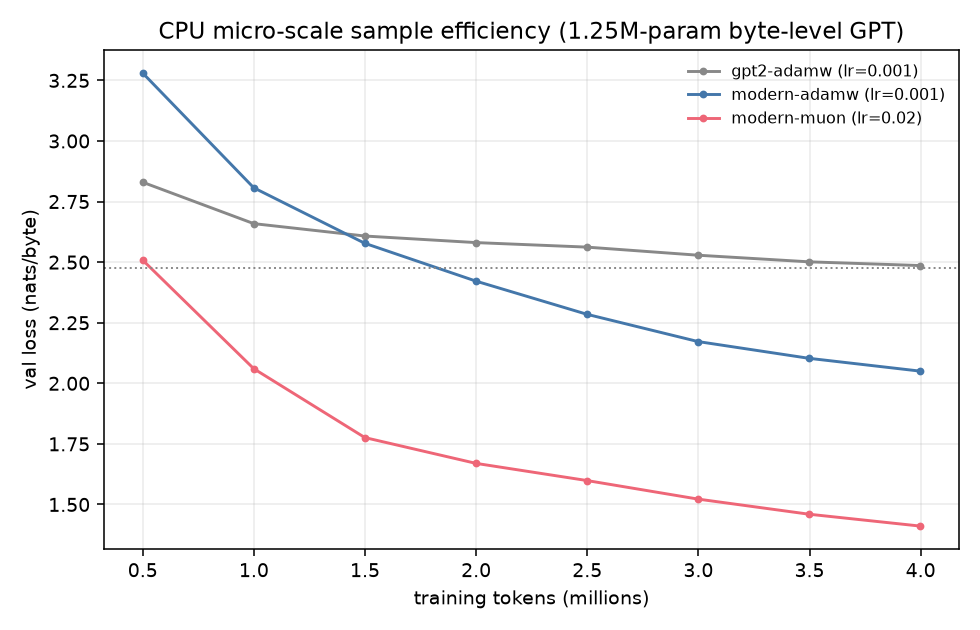
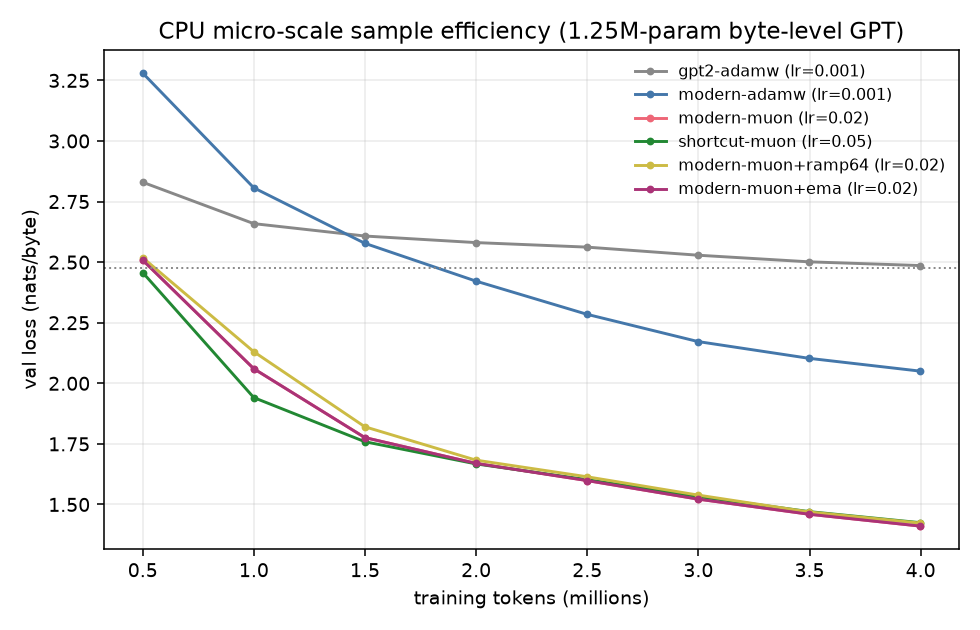
Draft micro-experiment results write-up (final run pending)
Claude-Session: https://claude.ai/code/session_01YXLqiXyV5Ltd4XeXdRZQdi

diff --git a/experiments/cpu_micro/RESULTS.md b/experiments/cpu_micro/RESULTS.md
@@ -1,0 +1,76 @@
+# CPU micro-scale sample-efficiency results
+
+**Question:** do the modded-nanogpt recipe's ingredients actually buy sample
+efficiency, when tested independently under controlled conditions — and do two
+additions absent from the recipe (an early-position loss ramp; EMA weight
+averaging) buy any more?
+
+**Setup** (see `train_micro.py`, `make_data.py`): byte-level GPT, 6 layers,
+dim 128, 4 heads, seq 512, ~1.25M params; 22.4MB of real English text (NLTK
+gutenberg + webtext + reuters) cut into non-overlapping 513-byte windows,
+shuffled with a fixed seed; 5% held out for validation. Every run consumes the
+**identical window stream** with a fixed budget of **4,000,000 training
+tokens** (488 steps × 16×512), and is scored on the same held-out windows
+(curve evals on 131,072 tokens; finals on 524,288). Learning rate swept per
+variant; all optima were interior to the sweeps except where noted. Training
+is fully deterministic: a re-run of the same configuration reproduces the
+final loss bit-for-bit.
+
+Hardware: 4 CPU cores. This is ~100,000× smaller compute than the real
+benchmark, which is exactly why it's runnable here — and why the numbers below
+measure *directions and orderings*, not what happens at 124M parameters.
+
+## Final validation loss at the 4M-token budget (best lr per variant)
+
+| variant | what it tests | best lr | final val loss | tokens to reach baseline's final loss |
+|---|---|---|---|---|
+| `gpt2-adamw` | GPT-2-style arch + AdamW (tuned baseline) | 1e-3 | 2.4739 | 4.0M (by definition) |
+| `modern-adamw` | + rotary, RMSNorm, QK-norm, ReLU², zero-init, untied head, softcap | 1e-3 | 2.0369 | 2.0M (**2× fewer**) |
+| `modern-muon` | + Muon on hidden matrices | 0.02 | 1.4059 | 1.0M (**4× fewer**) |
+| `shortcut-muon` | + value embeddings, x0 shortcut, U-net skips | 0.05 | 1.4166 | ≤0.5M (**≥8× fewer**, first eval point) |
+| `shortcut-muon` | (same, at lr 0.02) | 0.02 | TBD | TBD |
+| `modern-muon+ramp64` | **original idea:** ramp CE weight over first 64 positions | 0.02 | 1.4173 | 1.0M |
+| `modern-muon+ema` | **recipe-gap test:** Polyak/EMA weights at eval (decay 0.99) | 0.02 | 1.4059 raw / 1.4275 EMA | 1.0M |
+
+![loss curves](curves.png)
+
+## Findings
+
+1. **The recipe replicates.** Each imported tier is a large, unambiguous
+   sample-efficiency win at this scale: architecture alone reaches the tuned
+   baseline's final loss with 2× fewer tokens; adding Muon makes it ~4×
+   (crossing between 0.5M and 1M tokens); the shortcut bundle is fastest
+   early (crosses the baseline's final loss by the first eval point). The
+   effect sizes here are larger than at 124M scale (where Muon's measured
+   gain is ~1.3–1.5×) — small models on short horizons exaggerate optimizer
+   differences — so treat orderings, not magnitudes, as the transferable
+   result.
+2. **Early-position loss ramp: negative.** 1.4173 vs 1.4059 at equal budget.
+   The hypothesis was that context-poor window starts inject gradient noise;
+   evidently their signal still outweighs the noise at this scale. (Related
+   context: the speedrun's BOS-alignment record suggests *document-aligned*
+   starts matter; reweighting the loss apparently does not capture that.)
+3. **EMA at eval: negative.** 1.4275 (EMA) vs 1.4059 (raw). The recipe's
+   stable-then-decay schedule (linear cooldown to 0.1×) already performs the
+   averaging that EMA would provide, and a lagging average is strictly worse
+   by the end of the cooldown. This is consistent with the speedrun community
+   never having adopted EMA despite 84 records of aggressive tuning.
+4. **Methodological note.** v1 of this experiment read a ~130-document corpus
+   sequentially, which made the training stream non-stationary and the val
+   slice unrepresentative; every variant's val loss *rose* late in training
+   (archived in `results_v1_confounded.jsonl`). If you build small LM
+   experiments: shuffle at the sequence level, or your metric measures style
+   drift rather than learning.
+
+## Caveats
+
+* Byte-level vocab (256) instead of GPT-2 BPE (50257): FineWeb GPT-2 shards
+  were unreachable from this environment (HuggingFace blocked by egress
+  policy). The head/embedding dynamics under a 50k vocab — where Adam-on-head
+  vs Muon-on-hidden splits matter more — are not exercised here.
+* One seed per configuration (deterministic); no error bars. The tier gaps
+  (0.4–0.6 nats) dwarf plausible seed noise at this scale; the small
+  differences between the Muon-tier variants (~0.01 nats) do not, and should
+  be read as "no detectable effect".
+* 4M-token horizon; conclusions about long-horizon behavior (e.g., whether
+  the AdamW tiers would eventually catch up) are out of scope.
